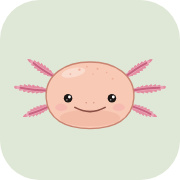
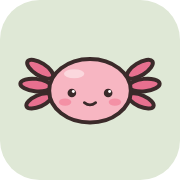
Redraw the axolotl mascot in the Pomolotl style
Thick outline, three gills per side, round hands and a simple smile,
wearing the dark hoodie with backpack straps. Regenerate the favicons
and Open Graph images from the new head.

Changed region(s): [[0.0833, 0.3056, 0.9167, 0.7222], [0.6111, 0.4167, 0.6389, 0.4444]]

diff --git a/src/components/scenery.ts b/src/components/scenery.ts
@@ -1,11 +1,11 @@
 // Ilustrações do Lagoa: símbolos do mascote e da paisagem, e as cenas do hero e do rodapé.
-// Gerado a partir do rascunho (drafts/axolotl.html); edite as cores pelos tokens em global.css.
+// Gerado a partir do rascunho (drafts/axolotl-v2.html); edite as cores pelos tokens em global.css.
 
 export const SYMBOLS =
-  '<g id="ax-head"><g class="gills"><g transform="translate(-46 -24) rotate(213)"><path d="M0 -2 L5 -2.2 L5 -1.7 L10 -3.9 L10 -2.4 L15 -4.9 L15 -2.8 L20 -5.3 L20 -2.9 L25 -5.2 L25 -2.7 L30 -4.6 L30 -2.2 L35 -3.3 L35 -1.3 L40 -1.3 L43 0 L40 1.3 L35 1.3 L35 3.3 L30 2.2 L30 4.6 L25 2.7 L25 5.2 L20 2.9 L20 5.3 L15 2.8 L15 4.9 L10 2.4 L10 3.9 L5 1.7 L5 2.2 L0 2Z" fill="#e48ba1" stroke="#e48ba1" stroke-width="1.2" stroke-linejoin="round"/><path d="M2 0Q20 -1.5 36.8 0" stroke="#f0b6c4" stroke-width="4.5" stroke-linecap="round" fill="none" opacity=".55"/><path d="M0 0Q20 -1.5 34 0" stroke="#c8637f" stroke-width="2.6" stroke-linecap="round" fill="none"/></g><g transform="translate(46 -24) rotate(-33)"><path d="M0 -2 L5 -2.2 L5 -1.7 L10 -3.9 L10 -2.4 L15 -4.9 L15 -2.8 L20 -5.3 L20 -2.9 L25 -5.2 L25 -2.7 L30 -4.6 L30 -2.2 L35 -3.3 L35 -1.3 L40 -1.3 L43 0 L40 1.3 L35 1.3 L35 3.3 L30 2.2 L30 4.6 L25 2.7 L25 5.2 L20 2.9 L20 5.3 L15 2.8 L15 4.9 L10 2.4 L10 3.9 L5 1.7 L5 2.2 L0 2Z" fill="#e48ba1" stroke="#e48ba1" stroke-width="1.2" stroke-linejoin="round"/><path d="M2 0Q20 -1.5 36.8 0" stroke="#f0b6c4" stroke-width="4.5" stroke-linecap="round" fill="none" opacity=".55"/><path d="M0 0Q20 -1.5 34 0" stroke="#c8637f" stroke-width="2.6" stroke-linecap="round" fill="none"/></g><g transform="translate(-54 -6) rotate(186)"><path d="M0 -2 L5.3 -2.2 L5.6 -1.7 L10.9 -3.9 L11.2 -2.4 L16.6 -4.9 L16.9 -2.8 L22.2 -5.3 L22.5 -2.9 L27.8 -5.2 L28.1 -2.7 L33.4 -4.6 L33.8 -2.2 L39.1 -3.3 L39.4 -1.3 L44.7 -1.3 L48 0 L44.7 1.3 L39.4 1.3 L39.1 3.3 L33.8 2.2 L33.4 4.6 L28.1 2.7 L27.8 5.2 L22.5 2.9 L22.2 5.3 L16.9 2.8 L16.6 4.9 L11.2 2.4 L10.9 3.9 L5.6 1.7 L5.3 2.2 L0 2Z" fill="#e48ba1" stroke="#e48ba1" stroke-width="1.2" stroke-linejoin="round"/><path d="M2 0Q22.5 -1.5 41.4 0" stroke="#f0b6c4" stroke-width="4.5" stroke-linecap="round" fill="none" opacity=".55"/><path d="M0 0Q22.5 -1.5 38.2 0" stroke="#c8637f" stroke-width="2.6" stroke-linecap="round" fill="none"/></g><g transform="translate(54 -6) rotate(-6)"><path d="M0 -2 L5.3 -2.2 L5.6 -1.7 L10.9 -3.9 L11.2 -2.4 L16.6 -4.9 L16.9 -2.8 L22.2 -5.3 L22.5 -2.9 L27.8 -5.2 L28.1 -2.7 L33.4 -4.6 L33.8 -2.2 L39.1 -3.3 L39.4 -1.3 L44.7 -1.3 L48 0 L44.7 1.3 L39.4 1.3 L39.1 3.3 L33.8 2.2 L33.4 4.6 L28.1 2.7 L27.8 5.2 L22.5 2.9 L22.2 5.3 L16.9 2.8 L16.6 4.9 L11.2 2.4 L10.9 3.9 L5.6 1.7 L5.3 2.2 L0 2Z" fill="#e48ba1" stroke="#e48ba1" stroke-width="1.2" stroke-linejoin="round"/><path d="M2 0Q22.5 -1.5 41.4 0" stroke="#f0b6c4" stroke-width="4.5" stroke-linecap="round" fill="none" opacity=".55"/><path d="M0 0Q22.5 -1.5 38.2 0" stroke="#c8637f" stroke-width="2.6" stroke-linecap="round" fill="none"/></g><g transform="translate(-51 13) rotate(158)"><path d="M0 -2 L4.8 -2.2 L4.6 -1.7 L9.4 -3.9 L9.2 -2.4 L14.1 -4.9 L13.9 -2.8 L18.7 -5.3 L18.5 -2.9 L23.3 -5.2 L23.1 -2.7 L27.9 -4.6 L27.8 -2.2 L32.6 -3.3 L32.4 -1.3 L37.2 -1.3 L40 0 L37.2 1.3 L32.4 1.3 L32.6 3.3 L27.8 2.2 L27.9 4.6 L23.1 2.7 L23.3 5.2 L18.5 2.9 L18.7 5.3 L13.9 2.8 L14.1 4.9 L9.2 2.4 L9.4 3.9 L4.6 1.7 L4.8 2.2 L0 2Z" fill="#e48ba1" stroke="#e48ba1" stroke-width="1.2" stroke-linejoin="round"/><path d="M2 0Q18.5 -1.5 34 0" stroke="#f0b6c4" stroke-width="4.5" stroke-linecap="round" fill="none" opacity=".55"/><path d="M0 0Q18.5 -1.5 31.4 0" stroke="#c8637f" stroke-width="2.6" stroke-linecap="round" fill="none"/></g><g transform="translate(51 13) rotate(22)"><path d="M0 -2 L4.8 -2.2 L4.6 -1.7 L9.4 -3.9 L9.2 -2.4 L14.1 -4.9 L13.9 -2.8 L18.7 -5.3 L18.5 -2.9 L23.3 -5.2 L23.1 -2.7 L27.9 -4.6 L27.8 -2.2 L32.6 -3.3 L32.4 -1.3 L37.2 -1.3 L40 0 L37.2 1.3 L32.4 1.3 L32.6 3.3 L27.8 2.2 L27.9 4.6 L23.1 2.7 L23.3 5.2 L18.5 2.9 L18.7 5.3 L13.9 2.8 L14.1 4.9 L9.2 2.4 L9.4 3.9 L4.6 1.7 L4.8 2.2 L0 2Z" fill="#e48ba1" stroke="#e48ba1" stroke-width="1.2" stroke-linejoin="round"/><path d="M2 0Q18.5 -1.5 34 0" stroke="#f0b6c4" stroke-width="4.5" stroke-linecap="round" fill="none" opacity=".55"/><path d="M0 0Q18.5 -1.5 31.4 0" stroke="#c8637f" stroke-width="2.6" stroke-linecap="round" fill="none"/></g></g><path d="M-58 4C-60 -28 -32 -44 0 -44C32 -44 60 -28 58 4C56 32 32 44 0 44C-32 44 -56 32 -58 4Z" fill="#f8c9b5" stroke="#c98472" stroke-width="1.8"/><ellipse cx="0" cy="30" rx="40" ry="11" fill="#efb09b" opacity=".55"/><ellipse cx="-22" cy="-30" rx="16" ry="6" fill="#fff" opacity=".35" transform="rotate(-12 -22 -30)"/><circle cx="-14" cy="-34" r="1.6" fill="#efb09b"/><circle cx="-4" cy="-38" r="1.2" fill="#efb09b"/><circle cx="10" cy="-35" r="1.5" fill="#efb09b"/><circle cx="22" cy="-30" r="1.1" fill="#efb09b"/><circle cx="-26" cy="-28" r="1.2" fill="#efb09b"/><circle cx="4" cy="-28" r="1" fill="#efb09b"/><circle cx="30" cy="-22" r="1.3" fill="#efb09b"/><g fill="#f39aa8" opacity=".3"><ellipse cx="-38" cy="16" rx="8" ry="5"/><ellipse cx="38" cy="16" rx="8" ry="5"/></g><g fill="#d99583"><circle cx="-5" cy="10" r="1"/><circle cx="5" cy="10" r="1"/></g></g><symbol id="axo-wave" viewBox="-100 -70 200 200"><ellipse cx="0" cy="121" rx="54" ry="6" fill="#1f3329" opacity=".12"/><path d="M12 98Q46 120 70 96Q52 104 20 90Z" fill="#f8c9b5" stroke="#c98472" stroke-width="1.6" stroke-linejoin="round"/><g fill="#f8c9b5" stroke="#c98472" stroke-width="1.6"><ellipse cx="-17" cy="104" rx="9" ry="11"/><ellipse cx="17" cy="104" rx="9" ry="11"/></g><g fill="#f8c9b5" stroke="#c98472" stroke-width="1.4"><ellipse cx="-13" cy="117" rx="2.6" ry="3"/><ellipse cx="-18" cy="117" rx="2.6" ry="3"/><ellipse cx="-23" cy="117" rx="2.6" ry="3"/><ellipse cx="-20" cy="114" rx="12" ry="6.5"/></g><g fill="#f8c9b5" stroke="#c98472" stroke-width="1.4"><ellipse cx="13" cy="117" rx="2.6" ry="3"/><ellipse cx="18" cy="117" rx="2.6" ry="3"/><ellipse cx="23" cy="117" rx="2.6" ry="3"/><ellipse cx="20" cy="114" rx="12" ry="6.5"/></g><path d="M-46 34Q0 60 46 34Q44 18 0 16Q-44 18 -46 34Z" fill="#2b2a27"/><path d="M-36 34C-42 56 -42 84 -38 98Q0 104 38 98C42 84 42 56 36 34Z" fill="#403f3b" stroke="#2b2a27" stroke-width="1.8"/><path d="M14 40C26 56 30 78 30 97Q36 98 38 98C42 84 42 56 36 34Z" fill="#2b2a27" opacity=".35"/><path d="M-22 72Q0 68 22 72L24 93Q0 96 -24 93Z" fill="#3a3935" stroke="#2b2a27" stroke-width="1.3"/><path d="M0 44V101" stroke="#77736b" stroke-width="1.6"/><rect x="-2.5" y="50" width="5" height="8" rx="1.5" fill="#a5a096"/><g stroke="#a5a096" stroke-width="1.6" stroke-linecap="round"><path d="M-9 42L-10 58"/><path d="M9 42L10 58"/></g><g fill="#c9c3b8"><circle cx="-10" cy="59.5" r="1.6"/><circle cx="10" cy="59.5" r="1.6"/></g><g stroke="#8a6248" stroke-width="5" stroke-linecap="round"><path d="M-29 40Q-32 60 -30 86"/><path d="M29 40Q32 60 30 86"/></g><g fill="#b48a62"><rect x="-33.5" y="62" width="7" height="5" rx="1"/><rect x="26.5" y="62" width="7" height="5" rx="1"/></g><path d="M-33 46L-44 80" stroke="#2b2a27" stroke-width="17" stroke-linecap="round"/><path d="M-33 46L-44 80" stroke="#403f3b" stroke-width="13.6" stroke-linecap="round"/><g transform="translate(-46 88) rotate(180) scale(1)"><g stroke="#c98472" stroke-width="6.2" stroke-linecap="round"><path d="M0 -2L-6.4 -7.1"/><path d="M0 -2L-2.3 -9.2"/><path d="M0 -2L2.3 -9.2"/><path d="M0 -2L6.4 -7.1"/></g><ellipse cx="0" cy="1" rx="7.3" ry="6.8999999999999995" fill="#c98472"/><g stroke="#f8c9b5" stroke-width="3.6" stroke-linecap="round"><path d="M0 -2L-6.4 -7.1"/><path d="M0 -2L-2.3 -9.2"/><path d="M0 -2L2.3 -9.2"/><path d="M0 -2L6.4 -7.1"/></g><ellipse cx="0" cy="1" rx="6.0" ry="5.6" fill="#f8c9b5"/></g><g class="wave"><path d="M33 46L62 56" stroke="#2b2a27" stroke-width="17" stroke-linecap="round"/><path d="M33 46L62 56" stroke="#403f3b" stroke-width="13.6" stroke-linecap="round"/><g transform="translate(71 50) rotate(62) scale(1)"><g stroke="#c98472" stroke-width="6.2" stroke-linecap="round"><path d="M0 -2L-6.4 -7.1"/><path d="M0 -2L-2.3 -9.2"/><path d="M0 -2L2.3 -9.2"/><path d="M0 -2L6.4 -7.1"/></g><ellipse cx="0" cy="1" rx="7.3" ry="6.8999999999999995" fill="#c98472"/><g stroke="#f8c9b5" stroke-width="3.6" stroke-linecap="round"><path d="M0 -2L-6.4 -7.1"/><path d="M0 -2L-2.3 -9.2"/><path d="M0 -2L2.3 -9.2"/><path d="M0 -2L6.4 -7.1"/></g><ellipse cx="0" cy="1" rx="6.0" ry="5.6" fill="#f8c9b5"/></g></g><use href="#ax-head"/><g class="eyes"><g fill="#1c1715"><circle cx="-29" cy="4" r="5.6"/><circle cx="29" cy="4" r="5.6"/></g><g fill="#fff"><circle cx="-27.2" cy="2.2" r="1.9"/><circle cx="30.8" cy="2.2" r="1.9"/><circle cx="-30.5" cy="6" r=".8"/><circle cx="27.5" cy="6" r=".8"/></g></g><path d="M-20 16Q0 27 20 16" fill="none" stroke="#8a4f45" stroke-width="2.2" stroke-linecap="round"/></symbol><symbol id="axo-swim" viewBox="-100 -70 200 130"><ellipse cx="0" cy="38" rx="44" ry="13" fill="#403f3b"/><use href="#ax-head"/><g class="eyes"><g fill="#1c1715"><circle cx="-29" cy="4" r="5.6"/><circle cx="29" cy="4" r="5.6"/></g><g fill="#fff"><circle cx="-27.2" cy="2.2" r="1.9"/><circle cx="30.8" cy="2.2" r="1.9"/><circle cx="-30.5" cy="6" r=".8"/><circle cx="27.5" cy="6" r=".8"/></g></g><path d="M-20 16Q0 27 20 16" fill="none" stroke="#8a4f45" stroke-width="2.2" stroke-linecap="round"/><ellipse cx="0" cy="45" rx="64" ry="11" fill="var(--water, #9fcfca)"/><ellipse cx="0" cy="43" rx="76" ry="14" fill="none" stroke="var(--water-hi, #d6ece7)" stroke-width="2.5" opacity=".6"/><path d="M-34 50Q0 45 34 50" fill="none" stroke="var(--water-hi, #d6ece7)" stroke-width="2" stroke-linecap="round" opacity=".8"/></symbol><symbol id="axo-hike" viewBox="-100 -70 200 200"><ellipse cx="0" cy="121" rx="54" ry="6" fill="#1f3329" opacity=".12"/><path d="M12 98Q46 120 70 96Q52 104 20 90Z" fill="#f8c9b5" stroke="#c98472" stroke-width="1.6" stroke-linejoin="round"/><g fill="#f8c9b5" stroke="#c98472" stroke-width="1.6"><ellipse cx="-17" cy="104" rx="9" ry="11"/><ellipse cx="17" cy="104" rx="9" ry="11"/></g><g fill="#f8c9b5" stroke="#c98472" stroke-width="1.4"><ellipse cx="-13" cy="117" rx="2.6" ry="3"/><ellipse cx="-18" cy="117" rx="2.6" ry="3"/><ellipse cx="-23" cy="117" rx="2.6" ry="3"/><ellipse cx="-20" cy="114" rx="12" ry="6.5"/></g><g fill="#f8c9b5" stroke="#c98472" stroke-width="1.4"><ellipse cx="13" cy="117" rx="2.6" ry="3"/><ellipse cx="18" cy="117" rx="2.6" ry="3"/><ellipse cx="23" cy="117" rx="2.6" ry="3"/><ellipse cx="20" cy="114" rx="12" ry="6.5"/></g><path d="M-46 34Q0 60 46 34Q44 18 0 16Q-44 18 -46 34Z" fill="#2b2a27"/><path d="M-36 34C-42 56 -42 84 -38 98Q0 104 38 98C42 84 42 56 36 34Z" fill="#403f3b" stroke="#2b2a27" stroke-width="1.8"/><path d="M14 40C26 56 30 78 30 97Q36 98 38 98C42 84 42 56 36 34Z" fill="#2b2a27" opacity=".35"/><path d="M-22 72Q0 68 22 72L24 93Q0 96 -24 93Z" fill="#3a3935" stroke="#2b2a27" stroke-width="1.3"/><path d="M0 44V101" stroke="#77736b" stroke-width="1.6"/><rect x="-2.5" y="50" width="5" height="8" rx="1.5" fill="#a5a096"/><g stroke="#a5a096" stroke-width="1.6" stroke-linecap="round"><path d="M-9 42L-10 58"/><path d="M9 42L10 58"/></g><g fill="#c9c3b8"><circle cx="-10" cy="59.5" r="1.6"/><circle cx="10" cy="59.5" r="1.6"/></g><g stroke="#8a6248" stroke-width="5" stroke-linecap="round"><path d="M-29 40Q-32 60 -30 86"/><path d="M29 40Q32 60 30 86"/></g><g fill="#b48a62"><rect x="-33.5" y="62" width="7" height="5" rx="1"/><rect x="26.5" y="62" width="7" height="5" rx="1"/></g><path d="M-58 36L-62 120" stroke="#7a5640" stroke-width="4.5" stroke-linecap="round"/><path d="M-33 46L-50 62" stroke="#2b2a27" stroke-width="17" stroke-linecap="round"/><path d="M-33 46L-50 62" stroke="#403f3b" stroke-width="13.6" stroke-linecap="round"/><g transform="translate(-58 64) rotate(-90) scale(1)"><g stroke="#c98472" stroke-width="6.2" stroke-linecap="round"><path d="M0 -2L-6.4 -7.1"/><path d="M0 -2L-2.3 -9.2"/><path d="M0 -2L2.3 -9.2"/><path d="M0 -2L6.4 -7.1"/></g><ellipse cx="0" cy="1" rx="7.3" ry="6.8999999999999995" fill="#c98472"/><g stroke="#f8c9b5" stroke-width="3.6" stroke-linecap="round"><path d="M0 -2L-6.4 -7.1"/><path d="M0 -2L-2.3 -9.2"/><path d="M0 -2L2.3 -9.2"/><path d="M0 -2L6.4 -7.1"/></g><ellipse cx="0" cy="1" rx="6.0" ry="5.6" fill="#f8c9b5"/></g><path d="M33 46L44 80" stroke="#2b2a27" stroke-width="17" stroke-linecap="round"/><path d="M33 46L44 80" stroke="#403f3b" stroke-width="13.6" stroke-linecap="round"/><g transform="translate(46 88) rotate(180) scale(1)"><g stroke="#c98472" stroke-width="6.2" stroke-linecap="round"><path d="M0 -2L-6.4 -7.1"/><path d="M0 -2L-2.3 -9.2"/><path d="M0 -2L2.3 -9.2"/><path d="M0 -2L6.4 -7.1"/></g><ellipse cx="0" cy="1" rx="7.3" ry="6.8999999999999995" fill="#c98472"/><g stroke="#f8c9b5" stroke-width="3.6" stroke-linecap="round"><path d="M0 -2L-6.4 -7.1"/><path d="M0 -2L-2.3 -9.2"/><path d="M0 -2L2.3 -9.2"/><path d="M0 -2L6.4 -7.1"/></g><ellipse cx="0" cy="1" rx="6.0" ry="5.6" fill="#f8c9b5"/></g><use href="#ax-head"/><g class="eyes"><g fill="#1c1715"><circle cx="-29" cy="4" r="5.6"/><circle cx="29" cy="4" r="5.6"/></g><g fill="#fff"><circle cx="-27.2" cy="2.2" r="1.9"/><circle cx="30.8" cy="2.2" r="1.9"/><circle cx="-30.5" cy="6" r=".8"/><circle cx="27.5" cy="6" r=".8"/></g></g><path d="M-20 16Q0 27 20 16" fill="none" stroke="#8a4f45" stroke-width="2.2" stroke-linecap="round"/><path d="M4 -44Q2 -60 16 -66Q20 -50 4 -44Z" fill="#6f9a76" stroke="#4f7d5b" stroke-width="1.4"/><path d="M4 -44Q9 -54 14 -62" stroke="#4f7d5b" stroke-width="1.2" fill="none"/></symbol><symbol id="axo-head" viewBox="-100 -66 200 118"><use href="#ax-head"/><g class="eyes"><g fill="#1c1715"><circle cx="-29" cy="4" r="5.6"/><circle cx="29" cy="4" r="5.6"/></g><g fill="#fff"><circle cx="-27.2" cy="2.2" r="1.9"/><circle cx="30.8" cy="2.2" r="1.9"/><circle cx="-30.5" cy="6" r=".8"/><circle cx="27.5" cy="6" r=".8"/></g></g><path d="M-20 16Q0 27 20 16" fill="none" stroke="#8a4f45" stroke-width="2.2" stroke-linecap="round"/></symbol><symbol id="tree" viewBox="0 0 80 120"><rect x="37" y="70" width="6" height="50" rx="2" fill="var(--trunk)"/><circle cx="40" cy="48" r="30" fill="var(--tree)"/><circle cx="24" cy="62" r="18" fill="var(--tree)"/><circle cx="56" cy="62" r="18" fill="var(--tree-dark)"/><circle cx="32" cy="38" r="9" fill="#fff" opacity=".08"/></symbol><symbol id="pine" viewBox="0 0 60 140"><rect x="27" y="100" width="6" height="40" fill="var(--trunk)"/><path d="M30 0L52 46H40L58 82H44L60 112H0L16 82H2L20 46H8Z" fill="var(--tree-dark)"/></symbol><symbol id="reed" viewBox="0 0 30 90"><g stroke="var(--grass)" stroke-width="2.5" stroke-linecap="round" fill="none"><path d="M8 90Q6 50 10 18"/><path d="M18 90Q20 60 16 30"/><path d="M24 90Q26 70 28 48"/></g><rect x="7" y="10" width="6" height="18" rx="3" fill="var(--trunk)"/><rect x="13" y="22" width="6" height="16" rx="3" fill="var(--trunk)"/></symbol><symbol id="daisy" viewBox="0 0 20 20"><g fill="var(--flower)"><ellipse cx="10" cy="4" rx="2.6" ry="4"/><ellipse cx="10" cy="16" rx="2.6" ry="4"/><ellipse cx="4" cy="10" rx="4" ry="2.6"/><ellipse cx="16" cy="10" rx="4" ry="2.6"/><ellipse cx="5.8" cy="5.8" rx="2.4" ry="3.6" transform="rotate(-45 5.8 5.8)"/><ellipse cx="14.2" cy="14.2" rx="2.4" ry="3.6" transform="rotate(-45 14.2 14.2)"/><ellipse cx="14.2" cy="5.8" rx="2.4" ry="3.6" transform="rotate(45 14.2 5.8)"/><ellipse cx="5.8" cy="14.2" rx="2.4" ry="3.6" transform="rotate(45 5.8 14.2)"/></g><circle cx="10" cy="10" r="3" fill="#e8b84a"/></symbol><symbol id="birds" viewBox="0 0 60 30"><g fill="none" stroke="var(--ink)" stroke-width="1.6" stroke-linecap="round"><path d="M2 12q5-6 10 0q5-6 10 0"/><path d="M30 4q4-5 8 0q4-5 8 0"/><path d="M38 22q3-4 6 0q3-4 6 0"/></g></symbol>';
+  '<g id="axo-h"><g class="axo-gl"><g fill="#e7708f" stroke="#3b2a2a" stroke-width="3.5" stroke-linejoin="round"><ellipse cx="-44" cy="-19" rx="13" ry="5.5" transform="rotate(32 -44 -19)"/><ellipse cx="-48" cy="-5" rx="13.5" ry="5.5" transform="rotate(6 -48 -5)"/><ellipse cx="-45" cy="9" rx="12" ry="5" transform="rotate(-24 -45 9)"/></g></g><g class="axo-gr"><g fill="#e7708f" stroke="#3b2a2a" stroke-width="3.5" stroke-linejoin="round" transform="scale(-1 1)"><ellipse cx="-44" cy="-19" rx="13" ry="5.5" transform="rotate(32 -44 -19)"/><ellipse cx="-48" cy="-5" rx="13.5" ry="5.5" transform="rotate(6 -48 -5)"/><ellipse cx="-45" cy="9" rx="12" ry="5" transform="rotate(-24 -45 9)"/></g></g><ellipse cx="0" cy="0" rx="36" ry="28" fill="#f7b6c2" stroke="#3b2a2a" stroke-width="3.5" stroke-linejoin="round"/><ellipse cx="-14" cy="-15" rx="9" ry="4" fill="#fff" opacity=".45"/><ellipse cx="-22" cy="10" rx="5.5" ry="3.2" fill="#f2879e" opacity=".8"/><ellipse cx="22" cy="10" rx="5.5" ry="3.2" fill="#f2879e" opacity=".8"/><g class="axo-eye"><circle cx="-16" cy="2" r="3.8" fill="#3b2a2a"/><circle cx="-14.7" cy=".6" r="1.3" fill="#fff"/></g><g class="axo-eye"><circle cx="16" cy="2" r="3.8" fill="#3b2a2a"/><circle cx="17.3" cy=".6" r="1.3" fill="#fff"/></g><path d="M-5,10.5 Q0,14.5 5,10.5" fill="none" stroke="#3b2a2a" stroke-width="2.4" stroke-linecap="round"/></g><symbol id="axo-wave" viewBox="-100 -70 200 200"><g transform="translate(-100 -43)"><ellipse cx="100" cy="153" rx="50" ry="6" fill="#3b2a2a" opacity=".12"/><path d="M124,134 C150,140 166,124 160,104 C152,116 142,124 122,120 Z" fill="#f7b6c2" stroke="#3b2a2a" stroke-width="3.5" stroke-linejoin="round"/><ellipse cx="83" cy="148" rx="10" ry="5.5" fill="#f7b6c2" stroke="#3b2a2a" stroke-width="3.5" stroke-linejoin="round"/><ellipse cx="117" cy="148" rx="10" ry="5.5" fill="#f7b6c2" stroke="#3b2a2a" stroke-width="3.5" stroke-linejoin="round"/><ellipse cx="100" cy="124" rx="32" ry="25" fill="#3e4a43" stroke="#3b2a2a" stroke-width="3.5" stroke-linejoin="round"/><path d="M86,132 Q100,129 114,132 L116,143 Q100,147 84,143 Z" fill="#4f5d55" stroke="#3b2a2a" stroke-width="2.4" stroke-linejoin="round"/><path d="M80,104 Q76,120 79,140" fill="none" stroke="#3b2a2a" stroke-width="8.5" stroke-linecap="round"/><path d="M80,104 Q76,120 79,140" fill="none" stroke="#c99a5b" stroke-width="4" stroke-linecap="round"/><path d="M120,104 Q124,120 121,140" fill="none" stroke="#3b2a2a" stroke-width="8.5" stroke-linecap="round"/><path d="M120,104 Q124,120 121,140" fill="none" stroke="#c99a5b" stroke-width="4" stroke-linecap="round"/><g stroke="#e9e1d1" stroke-width="2" stroke-linecap="round"><path d="M95,103 L94,115"/><path d="M105,103 L106,115"/></g><circle cx="94" cy="116.5" r="2" fill="#e9e1d1"/><circle cx="106" cy="116.5" r="2" fill="#e9e1d1"/><path d="M78,112 Q66,124 74,134" fill="none" stroke="#3b2a2a" stroke-width="14" stroke-linecap="round"/><path d="M78,112 Q66,124 74,134" fill="none" stroke="#3e4a43" stroke-width="7" stroke-linecap="round"/><ellipse cx="76" cy="136" rx="7" ry="5.5" fill="#f7b6c2" stroke="#3b2a2a" stroke-width="3.5" stroke-linejoin="round"/><g transform="translate(100 72)"><path d="M-38,4 Q-42,30 0,34 Q42,30 38,4 Q30,24 0,26 Q-30,24 -38,4 Z" fill="#3e4a43" stroke="#3b2a2a" stroke-width="3.5" stroke-linejoin="round"/><use href="#axo-h"/></g><g class="axo-arm"><path d="M122,114 Q140,108 146,94" fill="none" stroke="#3b2a2a" stroke-width="14" stroke-linecap="round"/><path d="M122,114 Q140,108 146,94" fill="none" stroke="#3e4a43" stroke-width="7" stroke-linecap="round"/><ellipse cx="147" cy="90" rx="7" ry="7.5" fill="#f7b6c2" stroke="#3b2a2a" stroke-width="3.5" stroke-linejoin="round"/><g fill="none" stroke="#3b2a2a" stroke-width="2.4" stroke-linecap="round" opacity=".45"><path d="M158,84 q5,6 2,13"/><path d="M165,79 q8,9 3,20"/></g></g></g></symbol><symbol id="axo-swim" viewBox="-100 -70 200 130"><g transform="translate(-100 -92)"><ellipse class="ripple" cx="100" cy="132" rx="84" ry="16" fill="#cfe6e2" opacity=".7"/><ellipse cx="100" cy="124" rx="30" ry="18" fill="#3e4a43" stroke="#3b2a2a" stroke-width="3.5" stroke-linejoin="round"/><g transform="translate(100 88)"><path d="M-38,4 Q-42,30 0,34 Q42,30 38,4 Q30,24 0,26 Q-30,24 -38,4 Z" fill="#3e4a43" stroke="#3b2a2a" stroke-width="3.5" stroke-linejoin="round"/><use href="#axo-h"/></g><ellipse cx="100" cy="132" rx="66" ry="11" fill="#9cc7c4" stroke="#3b2a2a" stroke-width="3"/><path d="M60,128 Q100,138 140,128" fill="none" stroke="#cfe6e2" stroke-width="2.4" stroke-linecap="round" opacity=".8"/><ellipse cx="62" cy="129" rx="7.5" ry="5" fill="#f7b6c2" stroke="#3b2a2a" stroke-width="3.5" stroke-linejoin="round"/><ellipse cx="138" cy="129" rx="7.5" ry="5" fill="#f7b6c2" stroke="#3b2a2a" stroke-width="3.5" stroke-linejoin="round"/></g></symbol><symbol id="axo-hike" viewBox="-100 -70 200 200"><g transform="translate(-100 -43)"><ellipse cx="100" cy="153" rx="50" ry="6" fill="#3b2a2a" opacity=".12"/><rect x="54" y="94" width="34" height="44" rx="10" fill="#c99a5b" stroke="#3b2a2a" stroke-width="3.5" stroke-linejoin="round"/><path d="M58,104 H84" stroke="#3b2a2a" stroke-width="2.4"/><path d="M124,134 C150,140 166,124 160,104 C152,116 142,124 122,120 Z" fill="#f7b6c2" stroke="#3b2a2a" stroke-width="3.5" stroke-linejoin="round"/><ellipse cx="83" cy="148" rx="10" ry="5.5" fill="#f7b6c2" stroke="#3b2a2a" stroke-width="3.5" stroke-linejoin="round"/><ellipse cx="117" cy="148" rx="10" ry="5.5" fill="#f7b6c2" stroke="#3b2a2a" stroke-width="3.5" stroke-linejoin="round"/><ellipse cx="100" cy="124" rx="32" ry="25" fill="#3e4a43" stroke="#3b2a2a" stroke-width="3.5" stroke-linejoin="round"/><path d="M86,132 Q100,129 114,132 L116,143 Q100,147 84,143 Z" fill="#4f5d55" stroke="#3b2a2a" stroke-width="2.4" stroke-linejoin="round"/><path d="M80,104 Q76,120 79,140" fill="none" stroke="#3b2a2a" stroke-width="8.5" stroke-linecap="round"/><path d="M80,104 Q76,120 79,140" fill="none" stroke="#c99a5b" stroke-width="4" stroke-linecap="round"/><path d="M120,104 Q124,120 121,140" fill="none" stroke="#3b2a2a" stroke-width="8.5" stroke-linecap="round"/><path d="M120,104 Q124,120 121,140" fill="none" stroke="#c99a5b" stroke-width="4" stroke-linecap="round"/><g stroke="#e9e1d1" stroke-width="2" stroke-linecap="round"><path d="M95,103 L94,115"/><path d="M105,103 L106,115"/></g><circle cx="94" cy="116.5" r="2" fill="#e9e1d1"/><circle cx="106" cy="116.5" r="2" fill="#e9e1d1"/><path d="M78,112 Q66,124 74,134" fill="none" stroke="#3b2a2a" stroke-width="14" stroke-linecap="round"/><path d="M78,112 Q66,124 74,134" fill="none" stroke="#3e4a43" stroke-width="7" stroke-linecap="round"/><ellipse cx="76" cy="136" rx="7" ry="5.5" fill="#f7b6c2" stroke="#3b2a2a" stroke-width="3.5" stroke-linejoin="round"/><g transform="translate(100 72)"><path d="M-38,4 Q-42,30 0,34 Q42,30 38,4 Q30,24 0,26 Q-30,24 -38,4 Z" fill="#3e4a43" stroke="#3b2a2a" stroke-width="3.5" stroke-linejoin="round"/><use href="#axo-h"/></g><path d="M152,66 L142,152" stroke="#3b2a2a" stroke-width="9" stroke-linecap="round"/><path d="M152,66 L142,152" stroke="#8a6a48" stroke-width="4" stroke-linecap="round"/><path d="M122,116 Q136,116 146,112" fill="none" stroke="#3b2a2a" stroke-width="14" stroke-linecap="round"/><path d="M122,116 Q136,116 146,112" fill="none" stroke="#3e4a43" stroke-width="7" stroke-linecap="round"/><ellipse cx="148" cy="110" rx="7.5" ry="7" fill="#f7b6c2" stroke="#3b2a2a" stroke-width="3.5" stroke-linejoin="round"/></g></symbol><symbol id="axo-head" viewBox="-100 -66 200 118"><g transform="translate(0 -6) scale(1.5)"><use href="#axo-h"/></g></symbol><symbol id="tree" viewBox="0 0 80 120"><rect x="37" y="70" width="6" height="50" rx="2" fill="var(--trunk)"/><circle cx="40" cy="48" r="30" fill="var(--tree)"/><circle cx="24" cy="62" r="18" fill="var(--tree)"/><circle cx="56" cy="62" r="18" fill="var(--tree-dark)"/><circle cx="32" cy="38" r="9" fill="#fff" opacity=".08"/></symbol><symbol id="pine" viewBox="0 0 60 140"><rect x="27" y="100" width="6" height="40" fill="var(--trunk)"/><path d="M30 0L52 46H40L58 82H44L60 112H0L16 82H2L20 46H8Z" fill="var(--tree-dark)"/></symbol><symbol id="reed" viewBox="0 0 30 90"><g stroke="var(--grass)" stroke-width="2.5" stroke-linecap="round" fill="none"><path d="M8 90Q6 50 10 18"/><path d="M18 90Q20 60 16 30"/><path d="M24 90Q26 70 28 48"/></g><rect x="7" y="10" width="6" height="18" rx="3" fill="var(--trunk)"/><rect x="13" y="22" width="6" height="16" rx="3" fill="var(--trunk)"/></symbol><symbol id="daisy" viewBox="0 0 20 20"><g fill="var(--flower)"><ellipse cx="10" cy="4" rx="2.6" ry="4"/><ellipse cx="10" cy="16" rx="2.6" ry="4"/><ellipse cx="4" cy="10" rx="4" ry="2.6"/><ellipse cx="16" cy="10" rx="4" ry="2.6"/><ellipse cx="5.8" cy="5.8" rx="2.4" ry="3.6" transform="rotate(-45 5.8 5.8)"/><ellipse cx="14.2" cy="14.2" rx="2.4" ry="3.6" transform="rotate(-45 14.2 14.2)"/><ellipse cx="14.2" cy="5.8" rx="2.4" ry="3.6" transform="rotate(45 14.2 5.8)"/><ellipse cx="5.8" cy="14.2" rx="2.4" ry="3.6" transform="rotate(45 5.8 14.2)"/></g><circle cx="10" cy="10" r="3" fill="#e8b84a"/></symbol><symbol id="birds" viewBox="0 0 60 30"><g fill="none" stroke="var(--ink)" stroke-width="1.6" stroke-linecap="round"><path d="M2 12q5-6 10 0q5-6 10 0"/><path d="M30 4q4-5 8 0q4-5 8 0"/><path d="M38 22q3-4 6 0q3-4 6 0"/></g></symbol>';
 
 export const HERO_SCENE =
-  '<circle cx="1220" cy="215" r="52" fill="var(--sun)" opacity=".75"/><g class="bird"><use href="#birds" x="880" y="90" width="80" height="40"/></g><g class="bird" style="animation-duration:24s"><use href="#birds" x="1300" y="200" width="50" height="25"/></g><path d="M0 300C200 230 360 262 520 240C700 215 860 282 1040 252C1200 226 1320 262 1440 240V560H0Z" fill="var(--hill-far)"/><use href="#pine" x="1260" y="200" width="40" height="94"/><use href="#pine" x="1296" y="214" width="32" height="76"/><use href="#pine" x="1328" y="196" width="44" height="104"/><path d="M0 360C180 320 340 352 520 330C760 300 900 362 1120 332C1260 314 1360 332 1440 322V560H0Z" fill="var(--hill-mid)"/><use href="#tree" x="120" y="240" width="90" height="135"/><use href="#tree" x="190" y="270" width="70" height="105"/><use href="#tree" x="620" y="244" width="66" height="99"/><path d="M0 390C260 358 520 382 760 370C1000 358 1240 390 1440 374V560H0Z" fill="var(--hill-near)"/><ellipse cx="1080" cy="420" rx="250" ry="36" fill="var(--water)"/><path d="M850 416C930 394 1230 394 1320 416" fill="none" stroke="var(--water-hi)" stroke-width="3" opacity=".7"/><g fill="none" stroke="var(--water-hi)" stroke-width="2" stroke-linecap="round"><path class="ripple" d="M960 434h60"/><path class="ripple" style="animation-delay:-1.5s" d="M1170 428h46"/><path class="ripple" style="animation-delay:-3s" d="M1060 447h34"/></g><use href="#reed" x="830" y="342" width="34" height="100"/><use href="#reed" x="1300" y="352" width="28" height="86"/><path d="M0 547l-4 -11M0 547l1 -15M0 547l5 -9M1050 483l-4 -19M1050 483l1 -23M1050 483l5 -17M1087 485l-4 -17M1087 485l1 -21M1087 485l5 -15M1176 436l-4 -18M1176 436l1 -22M1176 436l5 -16M1005 405l-4 -15M1005 405l1 -19M1005 405l5 -13M1328 528l-4 -15M1328 528l1 -19M1328 528l5 -13M1329 509l-4 -16M1329 509l1 -20M1329 509l5 -14M1313 545l-4 -13M1313 545l1 -17M1313 545l5 -11M1206 450l-4 -12M1206 450l1 -16M1206 450l5 -10M1050 540l-4 -12M1050 540l1 -16M1050 540l5 -10M807 479l-4 -11M807 479l1 -15M807 479l5 -9M1309 405l-4 -13M1309 405l1 -17M1309 405l5 -11M957 548l-4 -10M957 548l1 -14M957 548l5 -8M584 443l-4 -14M584 443l1 -18M584 443l5 -12M479 483l-4 -11M479 483l1 -15M479 483l5 -9M913 481l-4 -18M913 481l1 -22M913 481l5 -16M845 453l-4 -13M845 453l1 -17M845 453l5 -11M1144 540l-4 -19M1144 540l1 -23M1144 540l5 -17M112 463l-4 -9M112 463l1 -13M112 463l5 -7M1435 432l-4 -10M1435 432l1 -14M1435 432l5 -8M658 493l-4 -21M658 493l1 -25M658 493l5 -19M1096 441l-4 -11M1096 441l1 -15M1096 441l5 -9M109 396l-4 -11M109 396l1 -15M109 396l5 -9M1067 476l-4 -11M1067 476l1 -15M1067 476l5 -9M1270 435l-4 -21M1270 435l1 -25M1270 435l5 -19M170 476l-4 -21M170 476l1 -25M170 476l5 -19M917 547l-4 -21M917 547l1 -25M917 547l5 -19M271 555l-4 -18M271 555l1 -22M271 555l5 -16M383 433l-4 -16M383 433l1 -20M383 433l5 -14M717 401l-4 -21M717 401l1 -25M717 401l5 -19M1101 465l-4 -18M1101 465l1 -22M1101 465l5 -16M1270 461l-4 -14M1270 461l1 -18M1270 461l5 -12M1277 488l-4 -17M1277 488l1 -21M1277 488l5 -15M929 418l-4 -16M929 418l1 -20M929 418l5 -14M1111 551l-4 -11M1111 551l1 -15M1111 551l5 -9M643 423l-4 -15M643 423l1 -19M643 423l5 -13M1081 400l-4 -16M1081 400l1 -20M1081 400l5 -14M292 515l-4 -11M292 515l1 -15M292 515l5 -9M950 466l-4 -19M950 466l1 -23M950 466l5 -17M1043 543l-4 -10M1043 543l1 -14M1043 543l5 -8M116 414l-4 -8M116 414l1 -12M116 414l5 -6M871 551l-4 -10M871 551l1 -14M871 551l5 -8M291 507l-4 -14M291 507l1 -18M291 507l5 -12M1431 465l-4 -19M1431 465l1 -23M1431 465l5 -17M572 464l-4 -11M572 464l1 -15M572 464l5 -9M1163 556l-4 -21M1163 556l1 -25M1163 556l5 -19M733 416l-4 -16M733 416l1 -20M733 416l5 -14M246 409l-4 -17M246 409l1 -21M246 409l5 -15M595 448l-4 -8M595 448l1 -12M595 448l5 -6M595 411l-4 -21M595 411l1 -25M595 411l5 -19M1120 521l-4 -20M1120 521l1 -24M1120 521l5 -18M1386 527l-4 -16M1386 527l1 -20M1386 527l5 -14M501 463l-4 -15M501 463l1 -19M501 463l5 -13M817 514l-4 -17M817 514l1 -21M817 514l5 -15M515 409l-4 -20M515 409l1 -24M515 409l5 -18M1318 527l-4 -18M1318 527l1 -22M1318 527l5 -16M1258 440l-4 -14M1258 440l1 -18M1258 440l5 -12M569 427l-4 -11M569 427l1 -15M569 427l5 -9M1294 531l-4 -18M1294 531l1 -22M1294 531l5 -16M1263 415l-4 -21M1263 415l1 -25M1263 415l5 -19M2 418l-4 -8M2 418l1 -12M2 418l5 -6M998 543l-4 -11M998 543l1 -15M998 543l5 -9M1364 511l-4 -10M1364 511l1 -14M1364 511l5 -8M1082 417l-4 -18M1082 417l1 -22M1082 417l5 -16M1375 486l-4 -19M1375 486l1 -23M1375 486l5 -17M1012 516l-4 -9M1012 516l1 -13M1012 516l5 -7M65 497l-4 -16M65 497l1 -20M65 497l5 -14M361 433l-4 -17M361 433l1 -21M361 433l5 -15" stroke="var(--grass)" stroke-width="1.8" stroke-linecap="round" fill="none"/><use href="#daisy" x="617" y="431" width="13" height="13"/><use href="#daisy" x="1305" y="457" width="14" height="14"/><use href="#daisy" x="1353" y="450" width="11" height="11"/><use href="#daisy" x="1274" y="526" width="16" height="16"/><use href="#daisy" x="75" y="507" width="15" height="15"/><use href="#daisy" x="188" y="500" width="9" height="9"/><use href="#daisy" x="1272" y="521" width="17" height="17"/><use href="#daisy" x="1058" y="439" width="12" height="12"/><use href="#daisy" x="286" y="430" width="17" height="17"/><use href="#daisy" x="911" y="528" width="11" height="11"/><use href="#daisy" x="809" y="467" width="12" height="12"/><use href="#daisy" x="1185" y="532" width="14" height="14"/><use href="#daisy" x="1381" y="386" width="14" height="14"/><use href="#daisy" x="801" y="465" width="10" height="10"/><use href="#daisy" x="1050" y="524" width="17" height="17"/><use href="#daisy" x="631" y="459" width="17" height="17"/><use href="#daisy" x="1020" y="502" width="15" height="15"/><use href="#daisy" x="298" y="425" width="10" height="10"/><use href="#daisy" x="772" y="455" width="14" height="14"/><use href="#daisy" x="902" y="385" width="14" height="14"/><use href="#daisy" x="1170" y="426" width="9" height="9"/><use href="#daisy" x="995" y="448" width="14" height="14"/><g class="axo-wrap"><use href="#axo-wave" x="990" y="262" width="170" height="170"/></g>';
+  '<circle cx="1220" cy="215" r="52" fill="var(--sun)" opacity=".75"/><g class="bird"><use href="#birds" x="880" y="90" width="80" height="40"/></g><g class="bird" style="animation-duration:24s"><use href="#birds" x="1300" y="200" width="50" height="25"/></g><path d="M0 300C200 230 360 262 520 240C700 215 860 282 1040 252C1200 226 1320 262 1440 240V560H0Z" fill="var(--hill-far)"/><use href="#pine" x="1260" y="200" width="40" height="94"/><use href="#pine" x="1296" y="214" width="32" height="76"/><use href="#pine" x="1328" y="196" width="44" height="104"/><path d="M0 360C180 320 340 352 520 330C760 300 900 362 1120 332C1260 314 1360 332 1440 322V560H0Z" fill="var(--hill-mid)"/><use href="#tree" x="120" y="240" width="90" height="135"/><use href="#tree" x="190" y="270" width="70" height="105"/><use href="#tree" x="620" y="244" width="66" height="99"/><path d="M0 390C260 358 520 382 760 370C1000 358 1240 390 1440 374V560H0Z" fill="var(--hill-near)"/><ellipse cx="1080" cy="420" rx="250" ry="36" fill="var(--water)"/><path d="M850 416C930 394 1230 394 1320 416" fill="none" stroke="var(--water-hi)" stroke-width="3" opacity=".7"/><g fill="none" stroke="var(--water-hi)" stroke-width="2" stroke-linecap="round"><path class="ripple" d="M960 434h60"/><path class="ripple" style="animation-delay:-1.5s" d="M1170 428h46"/><path class="ripple" style="animation-delay:-3s" d="M1060 447h34"/></g><use href="#reed" x="830" y="342" width="34" height="100"/><use href="#reed" x="1300" y="352" width="28" height="86"/><path d="M0 547l-4 -11M0 547l1 -15M0 547l5 -9M1050 483l-4 -19M1050 483l1 -23M1050 483l5 -17M1087 485l-4 -17M1087 485l1 -21M1087 485l5 -15M1176 436l-4 -18M1176 436l1 -22M1176 436l5 -16M1005 405l-4 -15M1005 405l1 -19M1005 405l5 -13M1328 528l-4 -15M1328 528l1 -19M1328 528l5 -13M1329 509l-4 -16M1329 509l1 -20M1329 509l5 -14M1313 545l-4 -13M1313 545l1 -17M1313 545l5 -11M1206 450l-4 -12M1206 450l1 -16M1206 450l5 -10M1050 540l-4 -12M1050 540l1 -16M1050 540l5 -10M807 479l-4 -11M807 479l1 -15M807 479l5 -9M1309 405l-4 -13M1309 405l1 -17M1309 405l5 -11M957 548l-4 -10M957 548l1 -14M957 548l5 -8M584 443l-4 -14M584 443l1 -18M584 443l5 -12M479 483l-4 -11M479 483l1 -15M479 483l5 -9M913 481l-4 -18M913 481l1 -22M913 481l5 -16M845 453l-4 -13M845 453l1 -17M845 453l5 -11M1144 540l-4 -19M1144 540l1 -23M1144 540l5 -17M112 463l-4 -9M112 463l1 -13M112 463l5 -7M1435 432l-4 -10M1435 432l1 -14M1435 432l5 -8M658 493l-4 -21M658 493l1 -25M658 493l5 -19M1096 441l-4 -11M1096 441l1 -15M1096 441l5 -9M109 396l-4 -11M109 396l1 -15M109 396l5 -9M1067 476l-4 -11M1067 476l1 -15M1067 476l5 -9M1270 435l-4 -21M1270 435l1 -25M1270 435l5 -19M170 476l-4 -21M170 476l1 -25M170 476l5 -19M917 547l-4 -21M917 547l1 -25M917 547l5 -19M271 555l-4 -18M271 555l1 -22M271 555l5 -16M383 433l-4 -16M383 433l1 -20M383 433l5 -14M717 401l-4 -21M717 401l1 -25M717 401l5 -19M1101 465l-4 -18M1101 465l1 -22M1101 465l5 -16M1270 461l-4 -14M1270 461l1 -18M1270 461l5 -12M1277 488l-4 -17M1277 488l1 -21M1277 488l5 -15M929 418l-4 -16M929 418l1 -20M929 418l5 -14M1111 551l-4 -11M1111 551l1 -15M1111 551l5 -9M643 423l-4 -15M643 423l1 -19M643 423l5 -13M1081 400l-4 -16M1081 400l1 -20M1081 400l5 -14M292 515l-4 -11M292 515l1 -15M292 515l5 -9M950 466l-4 -19M950 466l1 -23M950 466l5 -17M1043 543l-4 -10M1043 543l1 -14M1043 543l5 -8M116 414l-4 -8M116 414l1 -12M116 414l5 -6M871 551l-4 -10M871 551l1 -14M871 551l5 -8M291 507l-4 -14M291 507l1 -18M291 507l5 -12M1431 465l-4 -19M1431 465l1 -23M1431 465l5 -17M572 464l-4 -11M572 464l1 -15M572 464l5 -9M1163 556l-4 -21M1163 556l1 -25M1163 556l5 -19M733 416l-4 -16M733 416l1 -20M733 416l5 -14M246 409l-4 -17M246 409l1 -21M246 409l5 -15M595 448l-4 -8M595 448l1 -12M595 448l5 -6M595 411l-4 -21M595 411l1 -25M595 411l5 -19M1120 521l-4 -20M1120 521l1 -24M1120 521l5 -18M1386 527l-4 -16M1386 527l1 -20M1386 527l5 -14M501 463l-4 -15M501 463l1 -19M501 463l5 -13M817 514l-4 -17M817 514l1 -21M817 514l5 -15M515 409l-4 -20M515 409l1 -24M515 409l5 -18M1318 527l-4 -18M1318 527l1 -22M1318 527l5 -16M1258 440l-4 -14M1258 440l1 -18M1258 440l5 -12M569 427l-4 -11M569 427l1 -15M569 427l5 -9M1294 531l-4 -18M1294 531l1 -22M1294 531l5 -16M1263 415l-4 -21M1263 415l1 -25M1263 415l5 -19M2 418l-4 -8M2 418l1 -12M2 418l5 -6M998 543l-4 -11M998 543l1 -15M998 543l5 -9M1364 511l-4 -10M1364 511l1 -14M1364 511l5 -8M1082 417l-4 -18M1082 417l1 -22M1082 417l5 -16M1375 486l-4 -19M1375 486l1 -23M1375 486l5 -17M1012 516l-4 -9M1012 516l1 -13M1012 516l5 -7M65 497l-4 -16M65 497l1 -20M65 497l5 -14M361 433l-4 -17M361 433l1 -21M361 433l5 -15" stroke="var(--grass)" stroke-width="1.8" stroke-linecap="round" fill="none"/><use href="#daisy" x="617" y="431" width="13" height="13"/><use href="#daisy" x="1305" y="457" width="14" height="14"/><use href="#daisy" x="1353" y="450" width="11" height="11"/><use href="#daisy" x="1274" y="526" width="16" height="16"/><use href="#daisy" x="75" y="507" width="15" height="15"/><use href="#daisy" x="188" y="500" width="9" height="9"/><use href="#daisy" x="1272" y="521" width="17" height="17"/><use href="#daisy" x="1058" y="439" width="12" height="12"/><use href="#daisy" x="286" y="430" width="17" height="17"/><use href="#daisy" x="911" y="528" width="11" height="11"/><use href="#daisy" x="809" y="467" width="12" height="12"/><use href="#daisy" x="1185" y="532" width="14" height="14"/><use href="#daisy" x="1381" y="386" width="14" height="14"/><use href="#daisy" x="801" y="465" width="10" height="10"/><use href="#daisy" x="1050" y="524" width="17" height="17"/><use href="#daisy" x="631" y="459" width="17" height="17"/><use href="#daisy" x="1020" y="502" width="15" height="15"/><use href="#daisy" x="298" y="425" width="10" height="10"/><use href="#daisy" x="772" y="455" width="14" height="14"/><use href="#daisy" x="902" y="385" width="14" height="14"/><use href="#daisy" x="1170" y="426" width="9" height="9"/><use href="#daisy" x="995" y="448" width="14" height="14"/><g class="axo-wrap"><use href="#axo-wave" x="1060" y="238" width="170" height="170"/></g>';
 
 export const VALLEY_SCENE =
   '<g class="bird"><use href="#birds" x="560" y="40" width="110" height="55"/></g><path d="M0 260C140 200 260 170 400 210C480 232 520 250 600 246C680 242 720 214 820 196C960 172 1080 220 1200 200V480H0Z" fill="var(--hill-far)"/><path d="M0 320C160 268 300 270 440 300C520 318 560 310 600 300C660 286 760 260 880 270C1020 282 1120 300 1200 290V480H0Z" fill="var(--hill-mid)"/><path d="M600 300C590 330 520 352 470 380C410 414 380 450 360 480H700C690 450 660 420 650 390C640 360 640 330 600 300Z" fill="var(--water)"/><path d="M600 304C596 330 556 356 520 378M640 360C650 400 680 440 690 480" fill="none" stroke="var(--water-hi)" stroke-width="2.5" opacity=".8"/><path d="M0 360C120 340 260 360 400 400C440 412 460 440 470 480H0Z" fill="var(--hill-near)"/><path d="M1200 350C1080 340 900 370 760 410C700 428 690 456 700 480H1200Z" fill="var(--hill-near)"/><use href="#tree" x="20" y="160" width="140" height="210"/><use href="#tree" x="130" y="220" width="100" height="150"/><use href="#tree" x="250" y="290" width="60" height="90"/><use href="#pine" x="980" y="130" width="90" height="210"/><use href="#pine" x="1070" y="170" width="70" height="164"/><use href="#pine" x="900" y="250" width="50" height="117"/><use href="#reed" x="420" y="380" width="40" height="110"/><use href="#reed" x="700" y="390" width="34" height="96"/><g class="axo-wrap"><use href="#axo-swim" x="515" y="272" width="140" height="91"/></g><path d="M864 429l-4 -21M864 429l1 -25M864 429l5 -19M1146 423l-4 -12M1146 423l1 -16M1146 423l5 -10M238 422l-4 -16M238 422l1 -20M238 422l5 -14M170 439l-4 -11M170 439l1 -15M170 439l5 -9M66 423l-4 -17M66 423l1 -21M66 423l5 -15M840 443l-4 -22M840 443l1 -26M840 443l5 -20M963 430l-4 -18M963 430l1 -22M963 430l5 -16M776 446l-4 -13M776 446l1 -17M776 446l5 -11M593 427l-4 -9M593 427l1 -13M593 427l5 -7M425 441l-4 -17M425 441l1 -21M425 441l5 -15M151 423l-4 -20M151 423l1 -24M151 423l5 -18M1192 432l-4 -14M1192 432l1 -18M1192 432l5 -12M551 438l-4 -20M551 438l1 -24M551 438l5 -18M1044 461l-4 -20M1044 461l1 -24M1044 461l5 -18M51 434l-4 -8M51 434l1 -12M51 434l5 -6M693 469l-4 -20M693 469l1 -24M693 469l5 -18M1039 469l-4 -16M1039 469l1 -20M1039 469l5 -14M552 443l-4 -19M552 443l1 -23M552 443l5 -17M621 443l-4 -11M621 443l1 -15M621 443l5 -9M844 466l-4 -12M844 466l1 -16M844 466l5 -10M380 456l-4 -17M380 456l1 -21M380 456l5 -15M685 430l-4 -10M685 430l1 -14M685 430l5 -8M467 441l-4 -10M467 441l1 -14M467 441l5 -8M186 423l-4 -13M186 423l1 -17M186 423l5 -11M110 458l-4 -14M110 458l1 -18M110 458l5 -12M119 470l-4 -12M119 470l1 -16M119 470l5 -10M146 432l-4 -11M146 432l1 -15M146 432l5 -9M591 472l-4 -10M591 472l1 -14M591 472l5 -8M868 453l-4 -15M868 453l1 -19M868 453l5 -13M698 477l-4 -8M698 477l1 -12M698 477l5 -6M882 451l-4 -18M882 451l1 -22M882 451l5 -16M1015 461l-4 -11M1015 461l1 -15M1015 461l5 -9M756 454l-4 -8M756 454l1 -12M756 454l5 -6M893 476l-4 -17M893 476l1 -21M893 476l5 -15M238 435l-4 -14M238 435l1 -18M238 435l5 -12M102 438l-4 -14M102 438l1 -18M102 438l5 -12" stroke="var(--grass)" stroke-width="1.8" stroke-linecap="round" fill="none"/><use href="#daisy" x="966" y="413" width="13" height="13"/><use href="#daisy" x="988" y="430" width="15" height="15"/><use href="#daisy" x="873" y="464" width="11" height="11"/><use href="#daisy" x="1129" y="461" width="11" height="11"/><use href="#daisy" x="562" y="455" width="13" height="13"/><use href="#daisy" x="925" y="464" width="14" height="14"/><use href="#daisy" x="1043" y="411" width="12" height="12"/><use href="#daisy" x="483" y="465" width="9" height="9"/><use href="#daisy" x="40" y="415" width="15" height="15"/><use href="#daisy" x="299" y="460" width="12" height="12"/><use href="#daisy" x="984" y="452" width="17" height="17"/><use href="#daisy" x="830" y="426" width="12" height="12"/><use href="#daisy" x="1037" y="416" width="14" height="14"/><use href="#daisy" x="979" y="432" width="16" height="16"/><use href="#daisy" x="737" y="440" width="14" height="14"/><use href="#daisy" x="400" y="444" width="14" height="14"/><use href="#daisy" x="729" y="439" width="15" height="15"/><use href="#daisy" x="749" y="451" width="14" height="14"/><use href="#daisy" x="1161" y="428" width="9" height="9"/><use href="#daisy" x="124" y="422" width="16" height="16"/><use href="#daisy" x="932" y="417" width="14" height="14"/><use href="#daisy" x="818" y="406" width="17" height="17"/><use href="#daisy" x="1035" y="448" width="11" height="11"/><use href="#daisy" x="57" y="438" width="16" height="16"/>';

diff --git a/src/styles/global.css b/src/styles/global.css
@@ -188,16 +188,26 @@ a {
 }
 
 /* ===== mascote e cena ===== */
-.gills {
-  transform-origin: 0 0;
-  animation: breathe 3s ease-in-out infinite;
+.axo-gl,
+.axo-gr {
+  transform-box: fill-box;
+  animation: sway 3s ease-in-out infinite;
 }
-.eyes {
-  transform-origin: 0 4px;
+.axo-gl {
+  transform-origin: 100% 50%;
+}
+.axo-gr {
+  transform-origin: 0% 50%;
+  animation-direction: reverse;
+}
+.axo-eye {
+  transform-box: fill-box;
+  transform-origin: center;
   animation: blink 6s infinite;
 }
-.wave {
-  transform-origin: 33px 46px;
+.axo-arm {
+  transform-box: fill-box;
+  transform-origin: 12% 88%;
   animation: wave 2.6s ease-in-out infinite;
 }
 .scene .axo-wrap {
@@ -212,9 +222,9 @@ a {
   transform-origin: center;
 }
 
-@keyframes breathe {
+@keyframes sway {
   50% {
-    transform: scale(1.04);
+    transform: rotate(-5deg);
   }
 }
 @keyframes blink {
